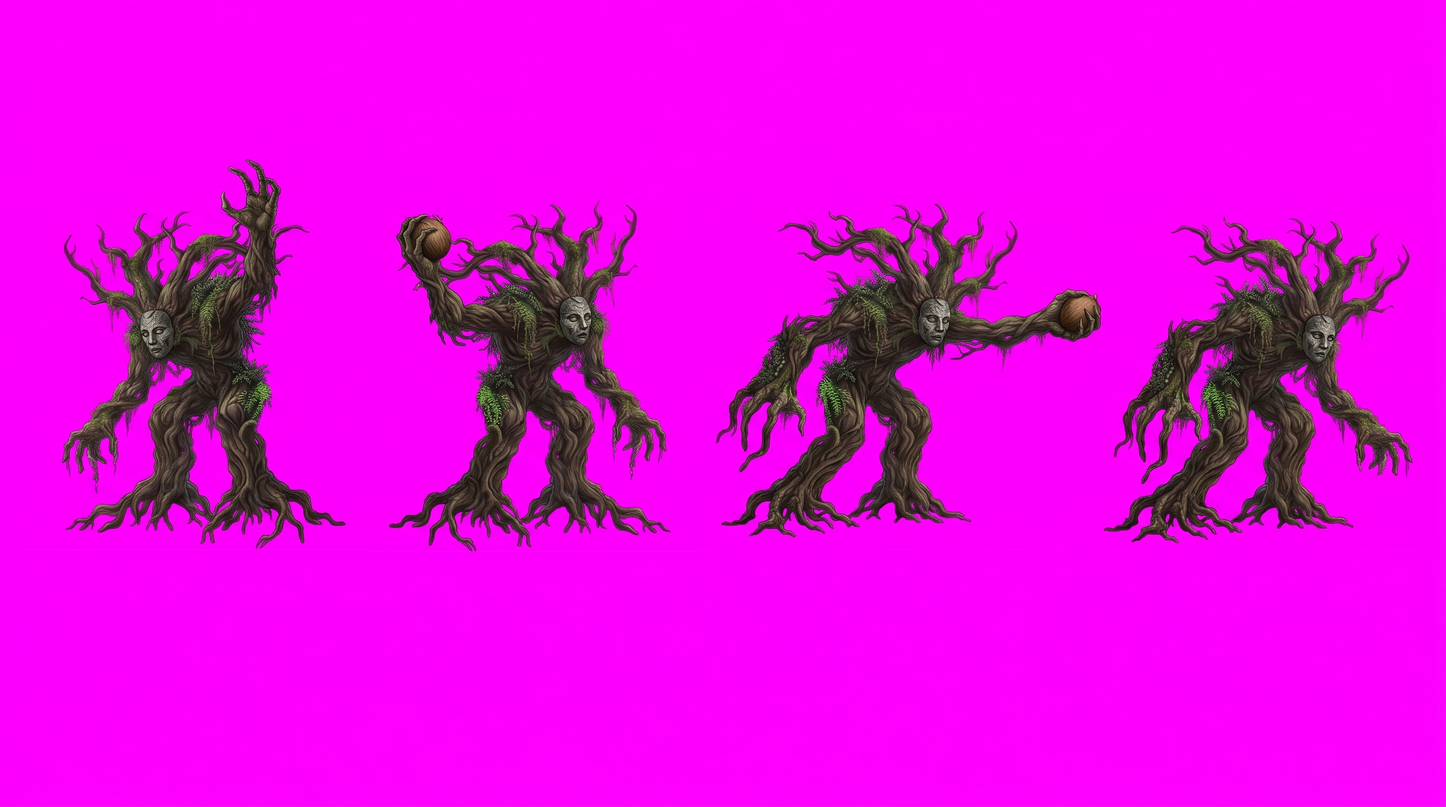
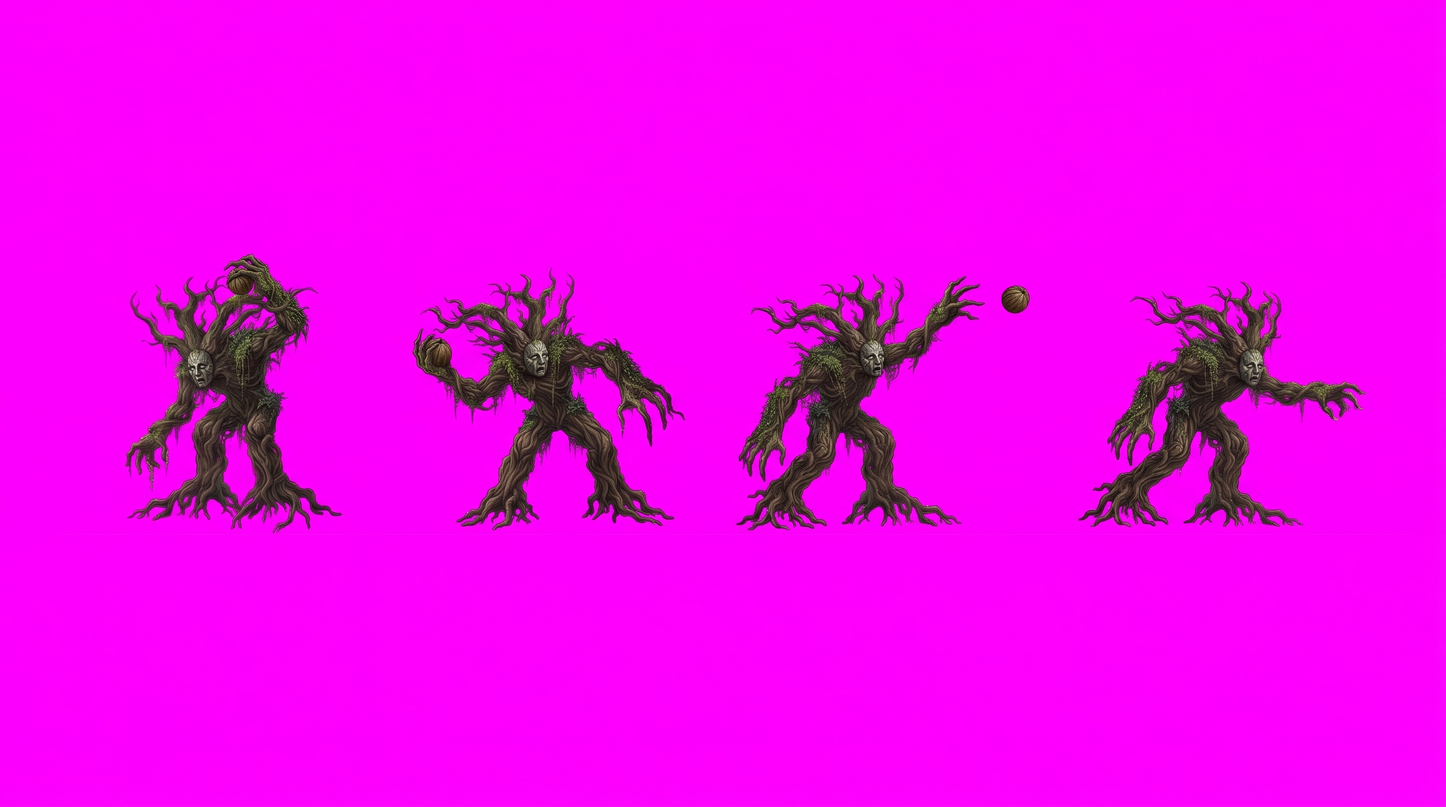
Boss sheet redos: tree throw and one-arm swing, stag forward-lean beam (mouth ~40-47,390-400), stag walk (prance)

Changed region(s): [[0.0312, 0.1875, 0.4688, 0.6875], [0.5, 0.25, 1.0, 0.6875]]

diff --git a/docs/ASSETS.md b/docs/ASSETS.md
@@ -63,7 +63,7 @@ bottom-left corner. The name card is text drawn in code, not an asset.
 | **Spectral stag** (World 3) | | ✅ | | | | |
 | Stag: intro | rears up on its hind legs, antlers raised, ~4 frames | | | | | |
 | Stag: idle | no sheet (user: the painted idle was useless): the standing frame from the clean base plus a slight breathing bob in code (scale ~1–2%, ~2 s per breath). `assets/bosses/stag-idle.webp` stays only as a fallback | — | ✅ | — | | |
-| Stag: walk | proud walking loop for moving between attacks, 4 frames (user asked for boss walking; the moth flies, the tree is stationary by design) | ✅ | ✅ | | | |
+| Stag: walk | proud walking loop, `assets/bosses/stag-walk.webp` (reads as a prance, not a four-beat walk; user's call). **Stag sheets are drawn at different sizes** (walk and beam ~555 px tall, idle ~486 px): code scales each sheet so the body height matches | ✅ | ✅ | 🟡 | ✅ | |
 | Stag: charge | gallop loop, ~6 frames | | | | | |
 | Stag: beam | lower antlers, charge, fire, ~3–4 frames (beam itself in code) | | | | | |
 | Stag: wave | rear up → stamp, ~4 frames (the wave itself in code) | | | | | |
